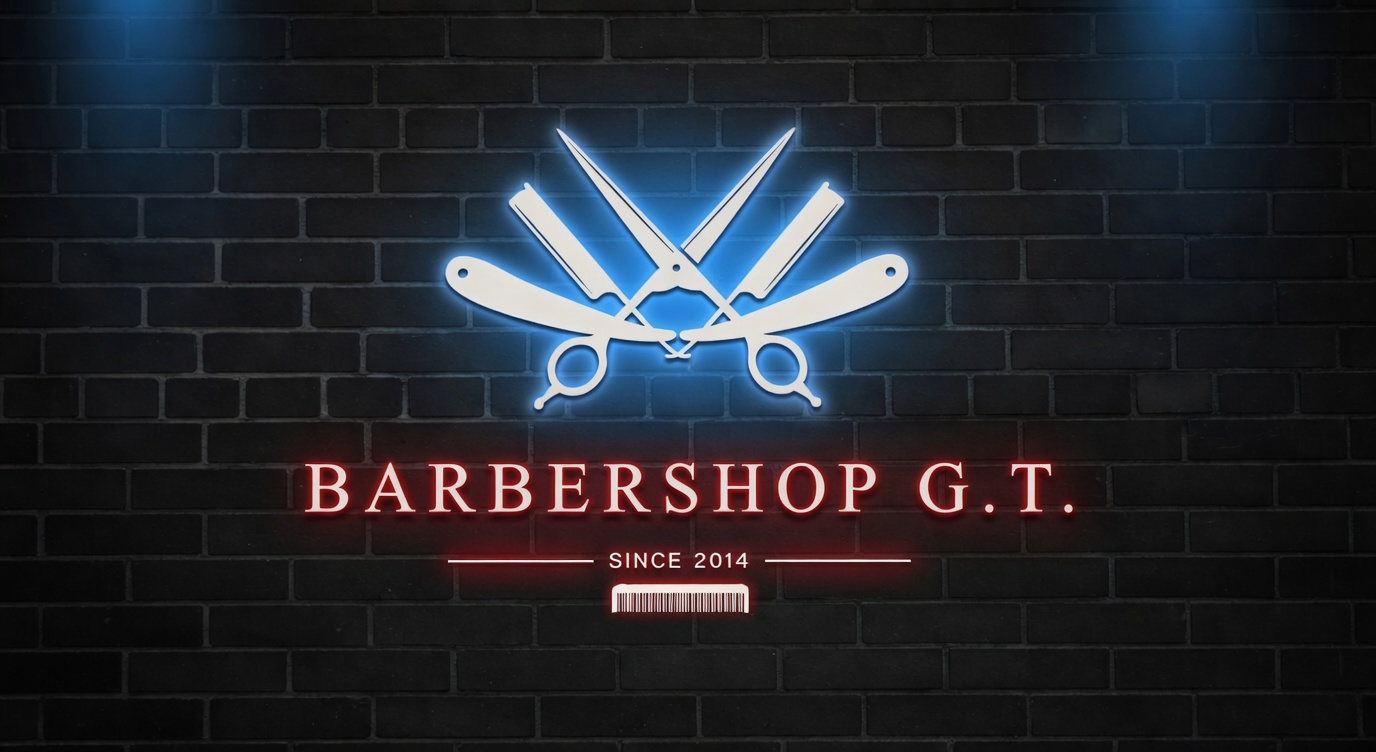
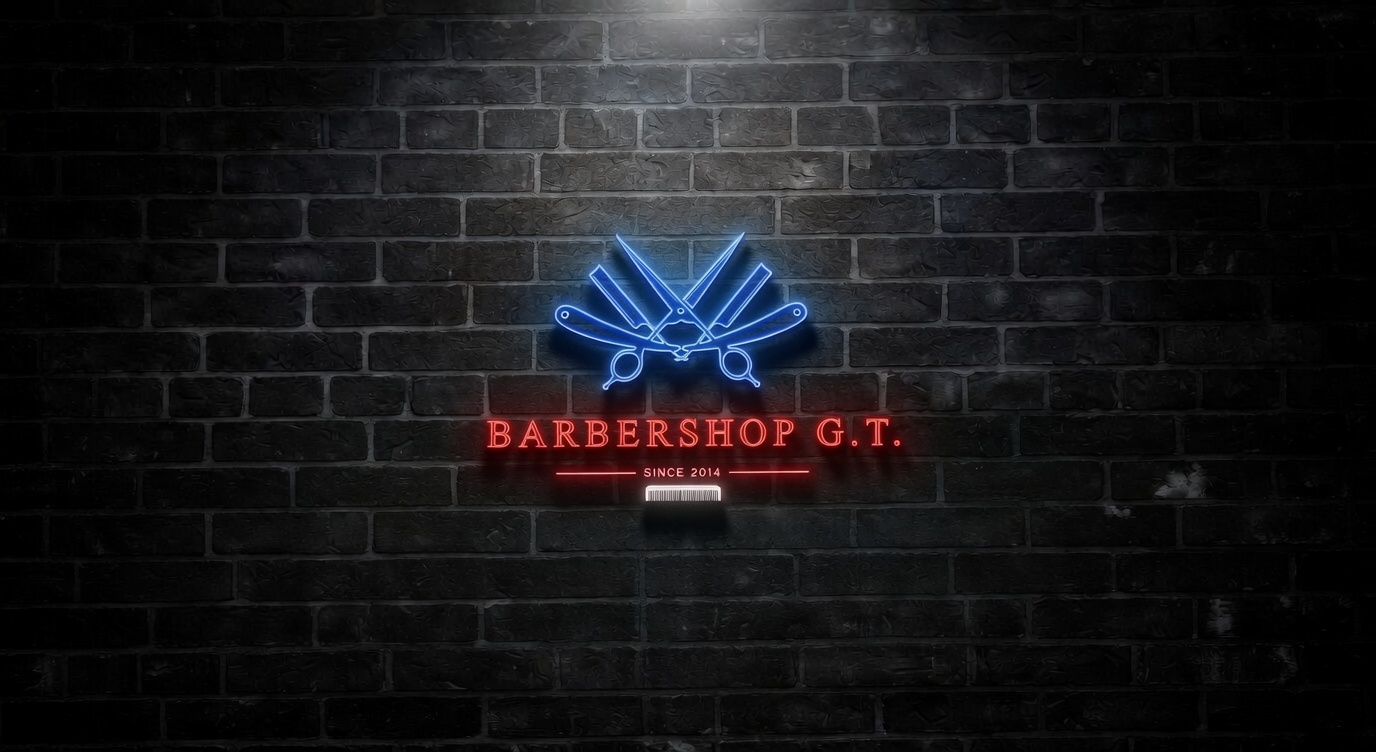
nuevo intento con scrol
nuevo intento con scroll

diff --git a/css/estilo.css b/css/estilo.css
@@ -37,8 +37,8 @@ body {
         background-image: url('../img/rotuloCELULAR.jpg');
         /* Ajuste fino de crop en móviles */
         background-position: center top;
-        /* Evita problemas de reflow/jerk en algunos navegadores móviles */
-        background-attachment: local;
+        /* Queremos que se mantenga como “fondo” durante el scroll */
+        background-attachment: fixed;
     }
 }
 